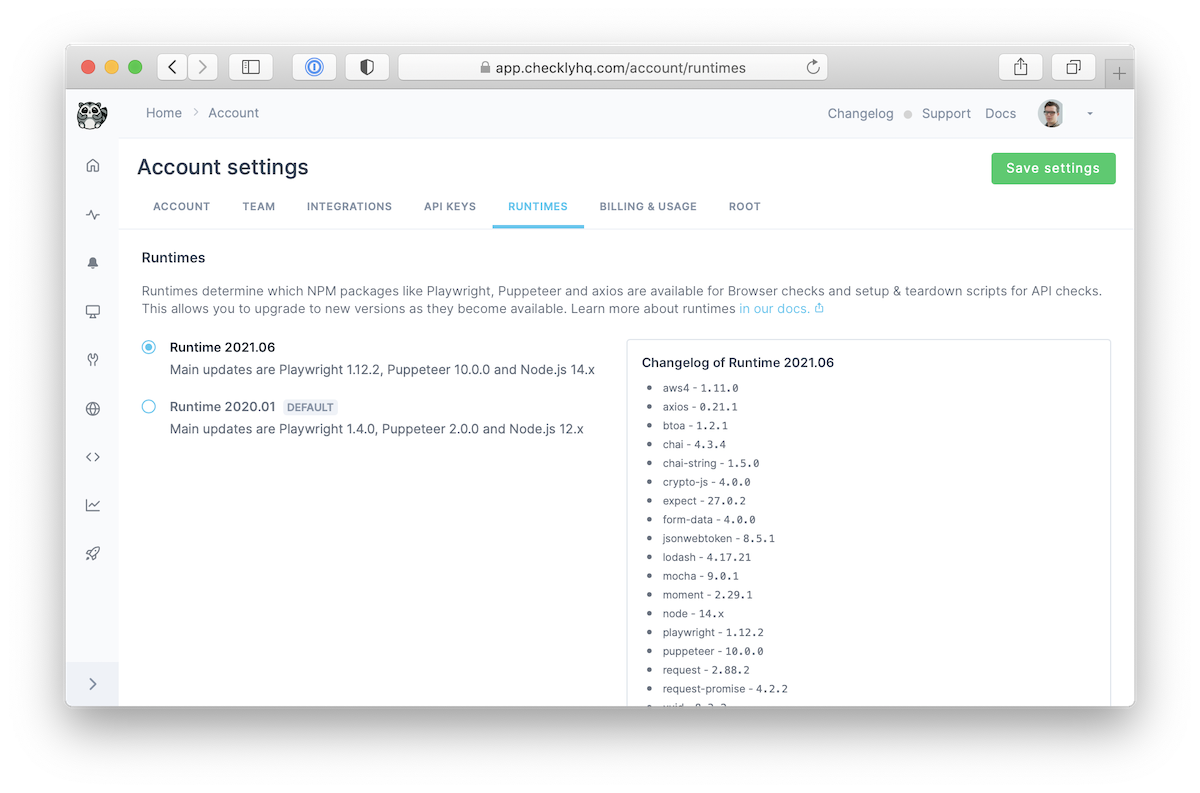
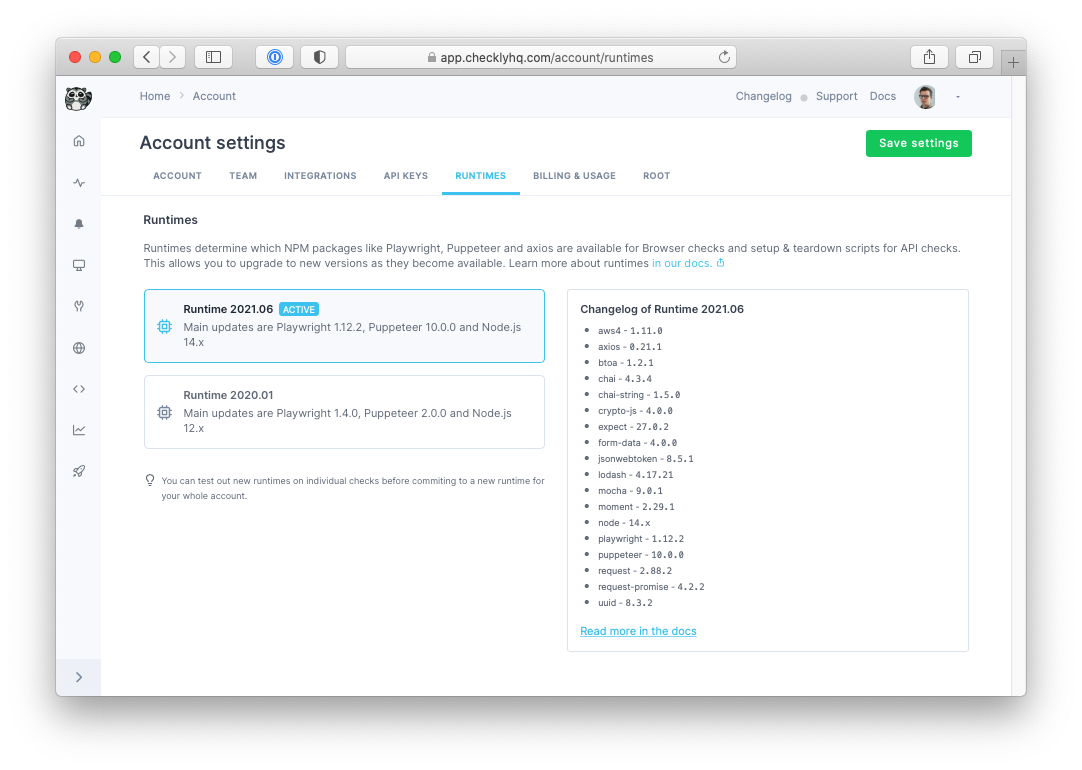
docs: adds runtimes pages and updates links [ch-4088]

diff --git a/site/layouts/shortcodes/runtimes.html b/site/layouts/shortcodes/runtimes.html
@@ -1,0 +1,14 @@
+{{ $Runtimes := getJSON "https://api.checklyhq.com/v1/runtimes" }}
+
+{{ range $Runtimes }}
+  <h3 id="{{.name}}">{{ .name }}</h3>
+  <p>{{ .description }}</p>
+  <ul>
+    {{ range $key, $value := .dependencies }}
+    <li>
+      <a href="https://npmjs.com/package/{{ $key }}/v/{{ $value }}" target="_blank">{{ $key }}</a>
+      {{ $value }}
+    </li>
+    {{ end }}
+  </ul>
+{{ end }}

diff --git a/site/content/docs/runtimes/_index.md b/site/content/docs/runtimes/_index.md
@@ -1,9 +1,9 @@
 ---
-title: Runtimes
-weight: 7
+title: How runtimes work
+weight: 1
 menu:
   docs:
-    parent: "Monitoring"
+    parent: "Runtimes"
 ---
 
 Checkly allows you to use JavaScript code in your [Browser checks](/docs/browser-checks) and in the optional 
@@ -12,12 +12,12 @@ Checkly allows you to use JavaScript code in your [Browser checks](/docs/browser
 This JavaScript code executes in a runtime environment that is managed by Checkly. This environment has access to specific 
 Node.js versions and NPM packages, like the "latest Playwright version on Node 14". We call these environments **runtimes**.
 
-## How runtimes work
+## Using runtimes
 
 It's pretty easy. You don't have to do anything most of the time.
 
 1. View all the available runtimes on the [runtimes tab in the account section](https://app.checklyhq.com/account/runtimes). See the screenshot below.
-2. There is always one runtime marked as **default**. This is the runtime Checkly enables for brand-new accounts.
+2. There is always one runtime marked as **active**. This is the runtime all checks use, unless you decide to override this at the check or group level.
 4. Runtimes have simple `YYYY.MM` name, e.g. `2021.06` Newer dates hold newer dependencies.   
 3. Pick the runtime you want and click "Save settings". This runtime now applies to all of your checks and any new checks you create.
 
@@ -31,24 +31,31 @@ different types of checks.
 Before updating your Checkly account to a new runtime, you can enable a newer runtime just for one check or check group.
 This is a very powerful way to make check if your checks are compatible with a new runtime.
 
-> Overriding the global, account level runtime for a handful of checks is **the recommended way to check for any compatibility issues**
- before committing to a new, global runtime.
+You can make use of this by providing a default value for a specific variable at the global or group level, but allow that variable to
+be overridden at the check level.
 
+You can:
+
+- Select a specific runtime in the **Browser check** editor.
+- Select a specific runtime in the "Setup & teardown" tab for each **API check**.
+- Select a specific runtime on the "Runtimes" tab for each **check group**.
+
+> Overriding the global, account level runtime for a handful of checks is **the recommended way to check for any compatibility issues**
+ before committing to a new, global runtime. Note the hierarchy: **check** runtime trumps **group** runtime trumps **global account** runtime.
  
 ## How we update and release new runtimes
 
 We ship new runtimes with a regular cadence. This is what you can expect from us:
 
-### 1. Major & minor version upgrades of core packages and Node.js versions
+**1. Major & minor version upgrades of core packages and Node.js versions**
   
 We aim to release a new runtime that holds the major and minor upgrades of Playwright, Puppeteer and Node.js **every quarter**.
 This will result in a new, named runtime e.g. `2023.03` available in the Checkly webapp and in our API.
 
-### 2. Patch releases and security patches
+**2. Patch releases and security patches**
 
 We reserve the right to **update an existing runtime** with critical security patches if deemed necessary. We will only do
 this if there are no known backwards compatibility issues.
-
 
 ## Why are runtimes important?
 

diff --git a/site/content/docs/api-checks/setup-teardown-scripts.md b/site/content/docs/api-checks/setup-teardown-scripts.md
@@ -388,41 +388,7 @@ Response properties are exposed a standard Javascript object. These are only ava
 All setup and teardown scripts run in a sandboxed environment on our cloud backend. You do not have full access to the Node.js
 standard library or to arbitrary NPM modules. Currently every runner is equipped with the following libraries:
 
-### Built-in modules
-
-- assert
-- buffer
-- crypto
-- dns
-- path
-- querystring
-- readline
-- stream
-- string_decoder
-- stream
-- timers
-- tls
-- url
-- util
-- zlib
-
-See the [built-in module documentation on the official Node.js site](https://nodejs.org/dist/latest-v12.x/docs/api/)
-
-### External modules
-
-- **[node](https://nodejs.org/docs/latest-v12.x/api/)** 12.x: The general Node.js execution environment.
-- **[aws4](https://github.com/mhart/aws4)** 1.8.0: Third-party library for easily signing AWS API requests.
-- **[axios](https://github.com/axios/axios)**  0.18.0: A modern HTTP library. Supports async/await.
-- **[btoa](https://www.npmjs.com/package/btoa)** 1.2.1: Binary to base64 encoded ascii. Handy for parsing some response bodies.
-- **[jsonwebtoken](https://github.com/auth0/node-jsonwebtoken)**  8.5.1: Implementation of JSON web tokens. Helps with signing.
-- **[crypto-js](https://github.com/brix/crypto-js)** 3.1.9: Cryptographic function library.
-- **[lodash](https://lodash.com)** 4.x.x: Javascript toolkit for many object, array and other functions.
-- **[moment](https://momentjs.com)** 2.22.2: Popular library for all things time related.
-- **[request](https://github.com/request/request)** 2.88.0: An alternative HTTP client to Axios that supports posting Form data.
-- **[request-promise](https://github.com/request/request-promise)** 4.2.2: A plugin for the request library to enable promises.
-- **[uuid](https://github.com/kelektiv/node-uuid)** 3.3.3: Simple, fast generation of UUIDS.
-- **[expect](https://www.npmjs.com/package/expect)** 26.6.2: The Jest expect assertion library.
-- **[form-data](https://github.com/form-data/form-data)** 3.x.x: Third-party library for creating form data.
+Check out [our runtimes documentation](/docs/runtimes/specs) for a full specification of which modules are included.
 
 ## Technical limitations
 

diff --git a/site/content/docs/runtimes/specs.md b/site/content/docs/runtimes/specs.md
@@ -1,0 +1,37 @@
+---
+title: Runtime specification
+weight: 9999
+menu:
+  docs:
+    parent: "Runtimes"
+aliases:
+    - /docs/browser-checks/runner-specification/
+---
+
+By default, all our runners have their timezone set to UTC, regardless of their location.
+
+## Built-in Node.js modules
+
+- assert
+- buffer
+- crypto
+- dns
+- path
+- querystring
+- readline
+- stream
+- string_decoder
+- stream
+- timers
+- tls
+- url
+- util
+- zlib
+
+See the [built-in module documentation on the official Node.js site](https://nodejs.org/dist/latest-v12.x/docs/api/)
+
+## NPM packages
+
+These are the currently available runtimes and the included external NPM dependencies.
+
+{{< runtimes >}}

diff --git a/site/content/docs/browser-checks/_index.md b/site/content/docs/browser-checks/_index.md
@@ -53,6 +53,11 @@ You use these frameworks to control the interactions you want to happen on a web
 Checkly currently supports using only **Google Chrome** with both Playwright and Puppeteer.
 {{< /info >}}
 
+{{< warning >}}
+Note: It is not possible to use both Playwright and Puppeteer in the same Browser Check script.  
+{{< /warning >}}
+
+
 ## Breaking down a browser check step-by-step
 
 Let's look at a more real life example and break down each step. The code below logs into Checkly, waits for the dashboard
